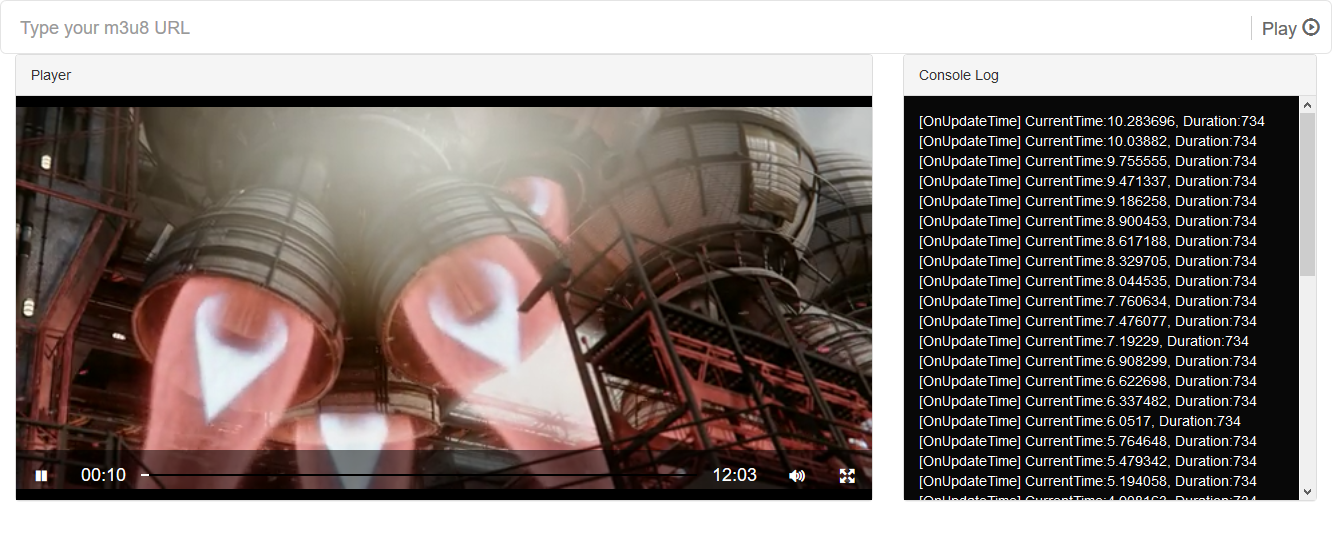
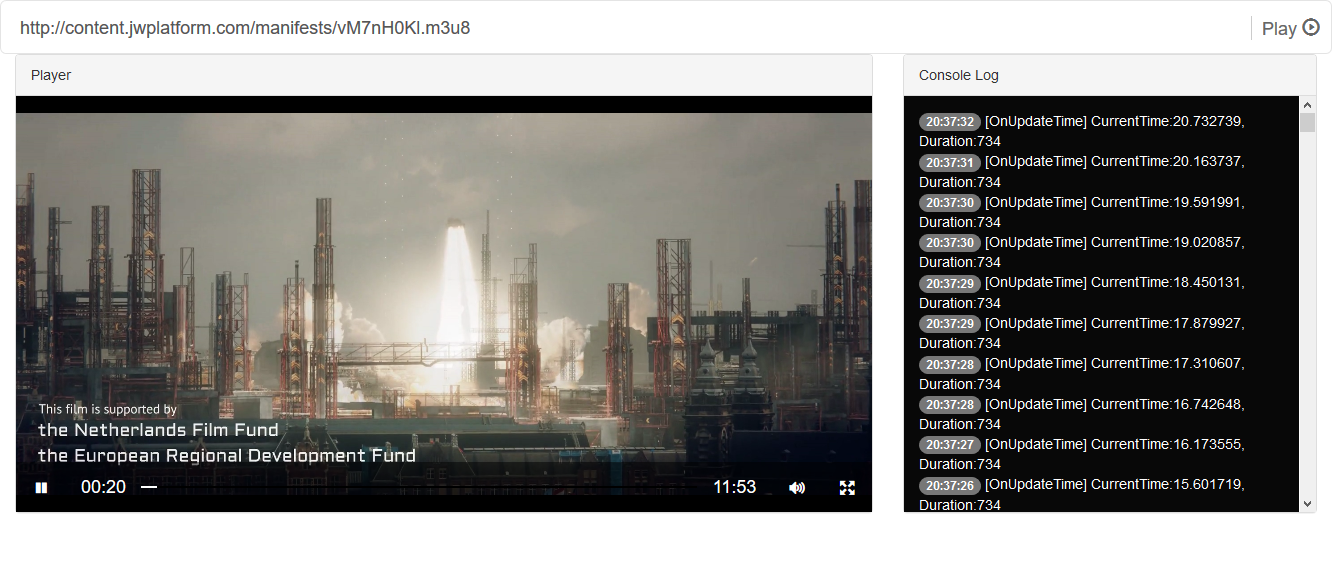
improve console logger

diff --git a/app.js b/app.js
@@ -57,7 +57,9 @@ myApp.controller('HomeCtrl',
                 //OnPlayerReady
                 controller.onPlayerReady = function (API) {
                     controller.API = API;
-                    $scope.player_log = "OnPlayerReady Called";
+                    PlayerLog("OnPlayerReady Called");
+                    $scope.StreamUrl = $sce.valueOf(controller.medias[0].sources[0].src);
+                    PlayerLog("Playing Url: " + $sce.valueOf(controller.medias[0].sources[0].src));
                 };
                 //OnCompleteVideo
                 controller.onCompleteVideo = function () {
@@ -144,10 +146,13 @@ myApp.controller('HomeCtrl',
                     controller.config.sources = controller.medias[0].sources;
                     $timeout(controller.API.play.bind(controller.API), 100);
                 };
-
+                var _printLog = [];
                 var PlayerLog = function (data) {
                     //new Date().getTime() +
-                    $scope.player_log = data + "\n" + $scope.player_log;
+                    //$scope.player_log = data + "\n" + $scope.player_log;
+                    var _temp = {currentDate: new Date().getTime(), data: data}
+                    _printLog.push(_temp);
+                    $scope.player_logs = _printLog.reverse();
                 }
             }]
         );

diff --git a/index.html b/index.html
@@ -67,7 +67,7 @@
                         Console Log
                     </div>
                     <div class="panel-body custom-panel-log" set-height>
-                        {{player_log}}
+                        <div ng-repeat="player_log in player_logs"><span class="badge">{{player_log.currentDate| date:'HH:mm:ss'}}</span> {{player_log.data}}</div>
                     </div>
                 </div>
             </div>
